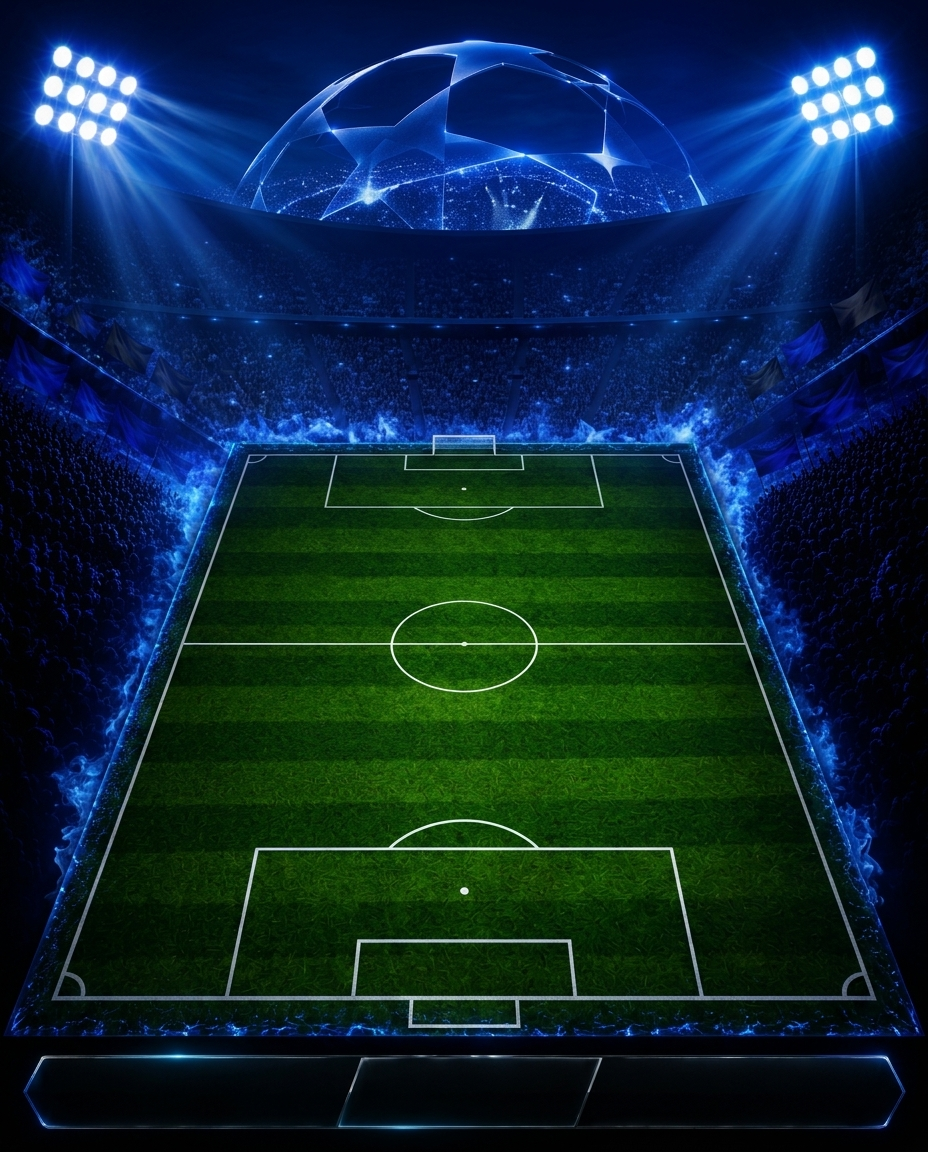
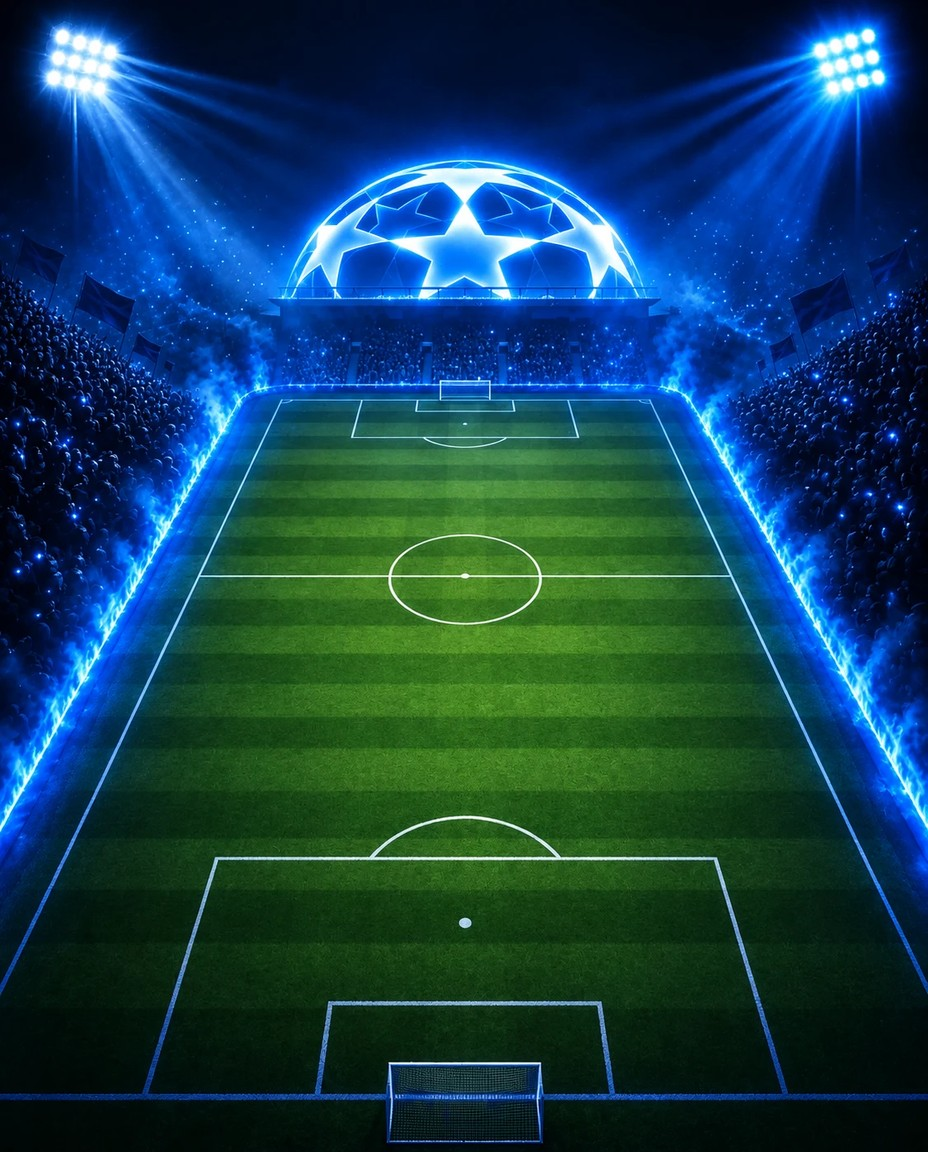
feat: PC'de tema ışıklandırması, yeni Final Gecesi tek takım görseli
- Masaüstünde posterin çevresine seçili temanın bulanık görseli yayılır (mobil sahneyle aynı)
- Tek takım "champions" görseli yeniden: rakip kale yukarıda, forvetler artık tribünde görünmüyor
- Tema etiketi "Şampiyonlar Ligi" → "Final Gecesi" (marka adı kullanılmasın; kimlik aynı)

diff --git a/src/components/AppShell.tsx b/src/components/AppShell.tsx
@@ -15,6 +15,7 @@ const LogoDesignerModal = dynamic(
   { ssr: false }
 );
 import { MatchPoster } from "./MatchPoster";
+import { usePosterBackground } from "./StaticPosterBackground";
 import { PosterToolbar } from "./PosterToolbar";
 import { UserAuthButton } from "./UserAuthButton";
 import { ModalShell } from "./ModalShell";
@@ -49,6 +50,7 @@ export function AppShell() {
   const teamLogoDisplaySize = useAppStore((s) => s.teamLogoDisplaySize);
   const setTeamLogoDisplaySize = useAppStore((s) => s.setTeamLogoDisplaySize);
 
+  const { src: themeBackdropSrc } = usePosterBackground();
   const mainBg = useMemo(() => {
     const hexToRgba = (hex: string, alpha: number) => {
       const sanitized = hex.replace("#", "");
@@ -170,16 +172,27 @@ export function AppShell() {
         <PosterToolbar />
 
         <main
-          className="flex-1 flex min-h-0 min-w-0"
+          className="relative flex-1 flex min-h-0 min-w-0 overflow-hidden"
           style={{ background: mainBg }}
         >
-          <div className="flex-1 flex items-center justify-center p-3 sm:p-4 min-h-0 min-w-0 [container-type:size]">
+          {/* Seçili temanın ışıklandırması posterin çevresine yayılır (mobil sahneyle aynı dil). */}
+          <img
+            src={themeBackdropSrc}
+            alt=""
+            aria-hidden
+            draggable={false}
+            className="pointer-events-none absolute inset-0 h-full w-full scale-110 select-none object-cover opacity-60 blur-2xl saturate-125"
+          />
+          <div aria-hidden className="pointer-events-none absolute inset-0 bg-gradient-to-b from-black/50 via-black/20 to-black/60" />
+          <div className="relative flex-1 flex items-center justify-center p-3 sm:p-4 min-h-0 min-w-0 [container-type:size] [&>[data-poster-frame]]:shadow-[0_24px_60px_rgba(0,0,0,0.65)]">
             <MatchPoster
               onEditPlayer={handleEditPlayer}
               onLogoClick={handleLogoClick}
             />
           </div>
-          <BenchPanel />
+          <div className="relative flex min-h-0">
+            <BenchPanel />
+          </div>
         </main>
         </>
       )}

diff --git a/src/lib/posterThemes.ts b/src/lib/posterThemes.ts
@@ -22,7 +22,7 @@ export const POSTER_THEMES: Record<PosterThemeId, PosterThemeConfig> = {
   },
   "champions-night": {
     id: "champions-night",
-    label: "Şampiyonlar Ligi",
+    label: "Final Gecesi",
     backgroundSrc: "/posters/champions-night.png",
     thumbSrc: "/posters/thumbs/champions-night.jpg",
   },

diff --git a/docs/QA-CHECKLIST.md b/docs/QA-CHECKLIST.md
@@ -747,7 +747,7 @@ Asset kontrolü: `public/posters/*.png` → tarayıcıda 404 olmamalı.
 
 | Adım | Beklenen |
 |------|----------|
-| Yeni kullanıcı / Posteri sıfırla | Tema Şampiyonlar Ligi, başlık mavi; ev sahibi beyaz kartal, deplasman sarı-lacivert |
+| Yeni kullanıcı / Posteri sıfırla | Tema Final Gecesi, başlık mavi; ev sahibi beyaz kartal, deplasman sarı-lacivert |
 | Tema seçici | Daha büyük küçük resimler, sağda yazı yok |
 | Paylaş menüsü | WhatsApp / X: panoya kopyalar + "Web'i aç" bildirimi; Instagram: indirir + "Instagram'ı aç"; Panoya kopyala; destekleyen tarayıcıda "Diğer…" (sistem paylaşımı) |
 | Pano izni yoksa | Hata değil: poster indirilir, "sürükleyip bırak" bildirimi |
@@ -951,6 +951,7 @@ Simülatör: `npm run dev:lan` → iOS Simulator Safari'de `http://<LAN IP>:3000
 | Ana ekrana ekle (Android emülatör, `adb reverse` + `localhost`) | Menü → "Install app" penceresi → (yerelde) "Add to home screen" onayı → simge; simgeden koyu açılış ekranı, adres çubuksuz açılır |
 | Açılış (iPhone, başka sekme oturum deposunu kilitlese de) | En geç ~4 sn'de yerel kadroyla açılır; "Kadro yükleniyor"da kalmaz (`AUTH_WAIT_MS`) |
 | Google ile giriş (tüm platformlar) | Açılır pencere açılır, giriş tamamlanır (çözücü girişte yüklenir, açılışta değil) |
+| PC: tema ışıklandırması | Posterin çevresinde seçili temanın bulanık görseli (Derbi kırmızı-beyaz, Final Gecesi mavi, Karanlık Arena koyu, Summer Cup kum/deniz); tema / tek-iki takım değişince güncellenir; indirilen postere girmez; yedek paneli okunaklı |
 | Ana ekrana ekle önerisi + diğer bildirimler | Çerez bandı ya da "yan çevir" şeridi açıkken çıkmaz; onlar kapanınca gelir (üst üste binmez) |
 | Paylaş (iPhone, HTTPS) | Menü: "Paylaş…" ve "Fotoğraflara kaydet" (paylaşım menüsünde "Görüntüyü Kaydet") |
 | Paylaş (iPhone, paylaşım yok / HTTP) | Poster oluşur; "İndir" sorusu; bildirim dosyanın Dosyalar → İndirilenler'e gittiğini söyler (Galeri değil) |
